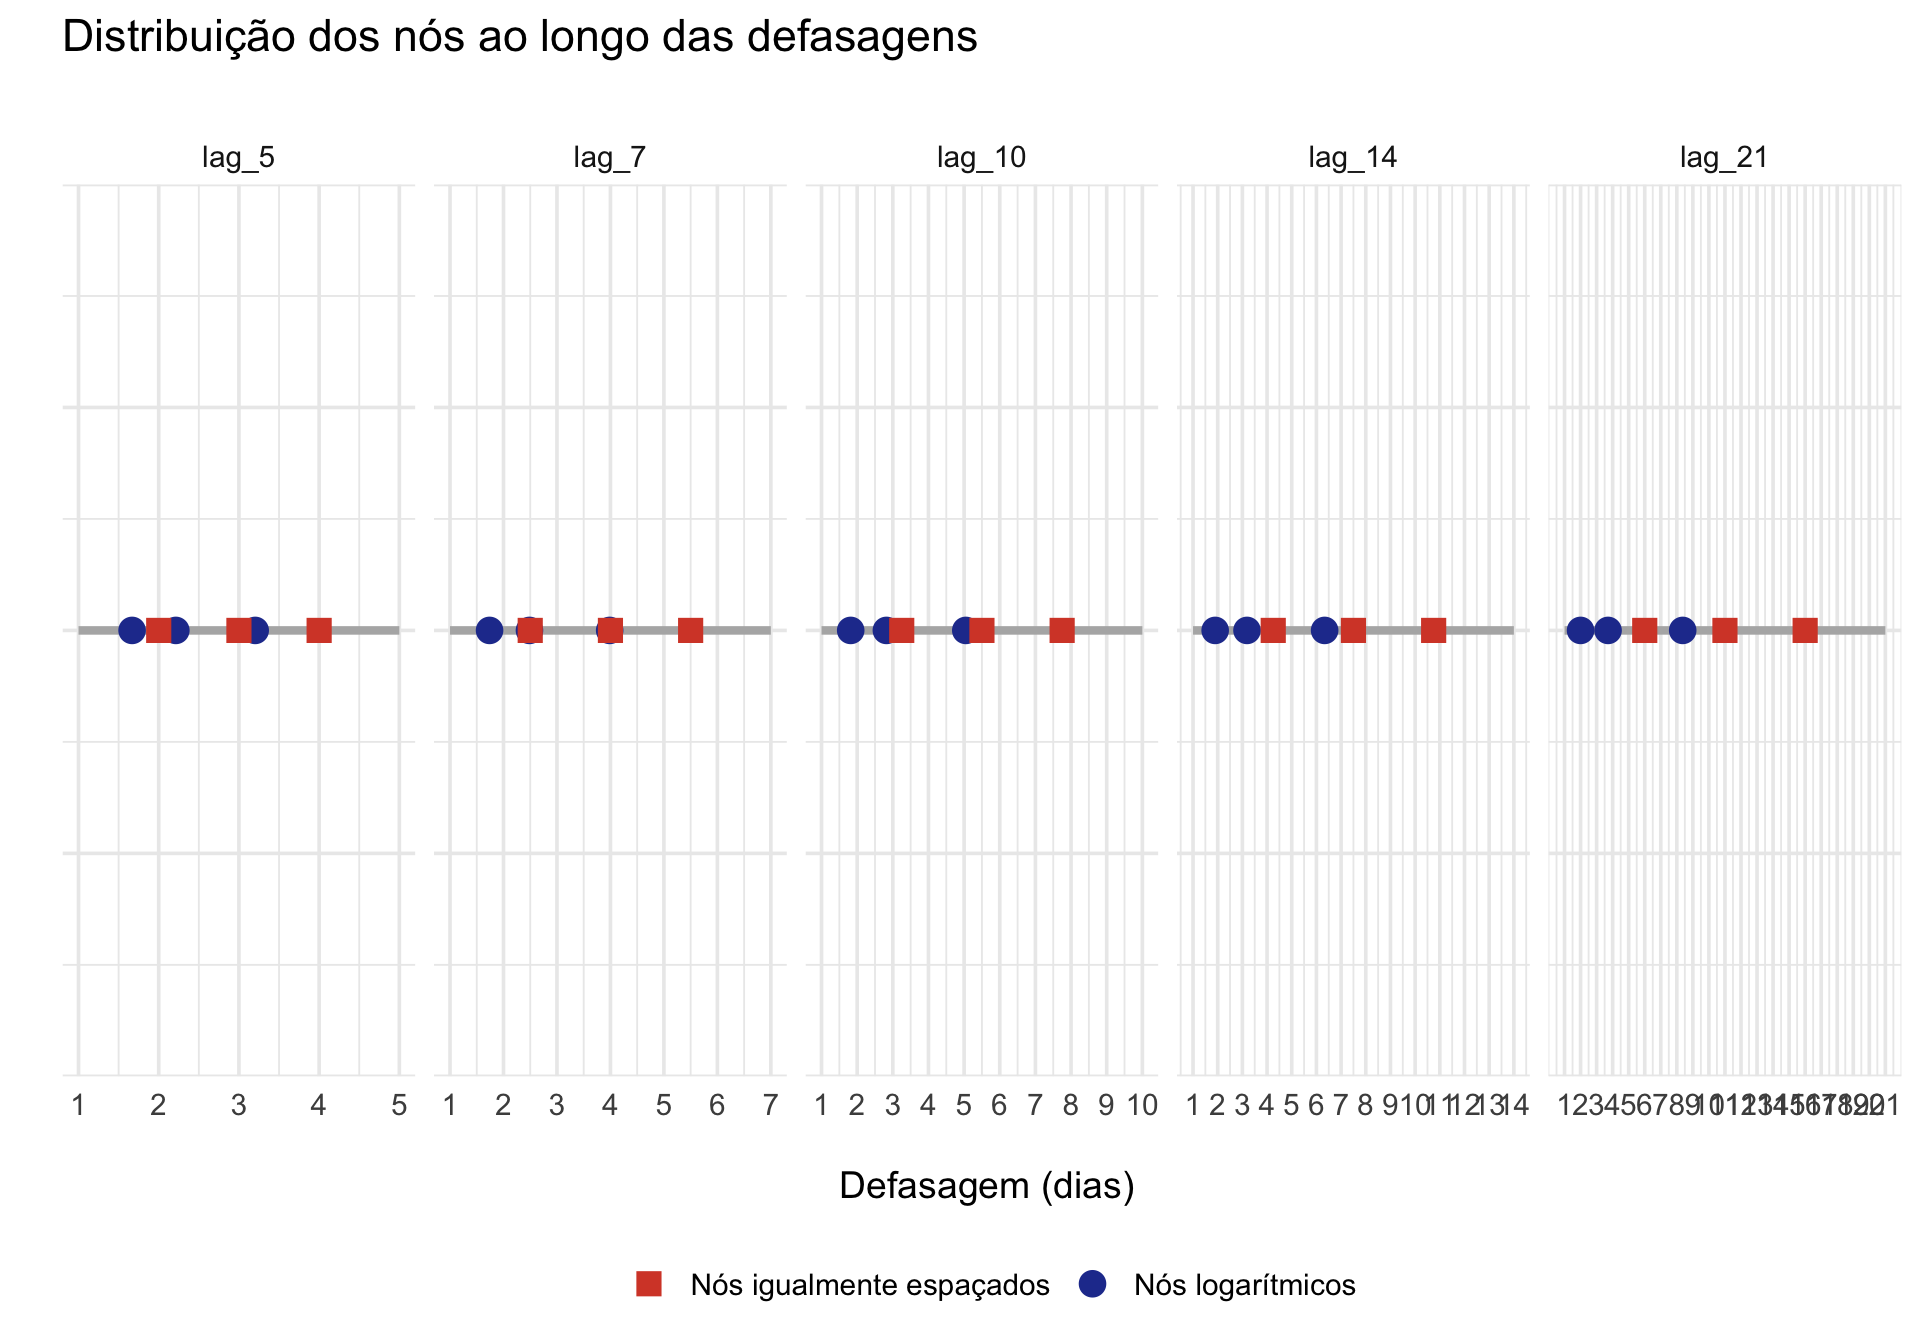
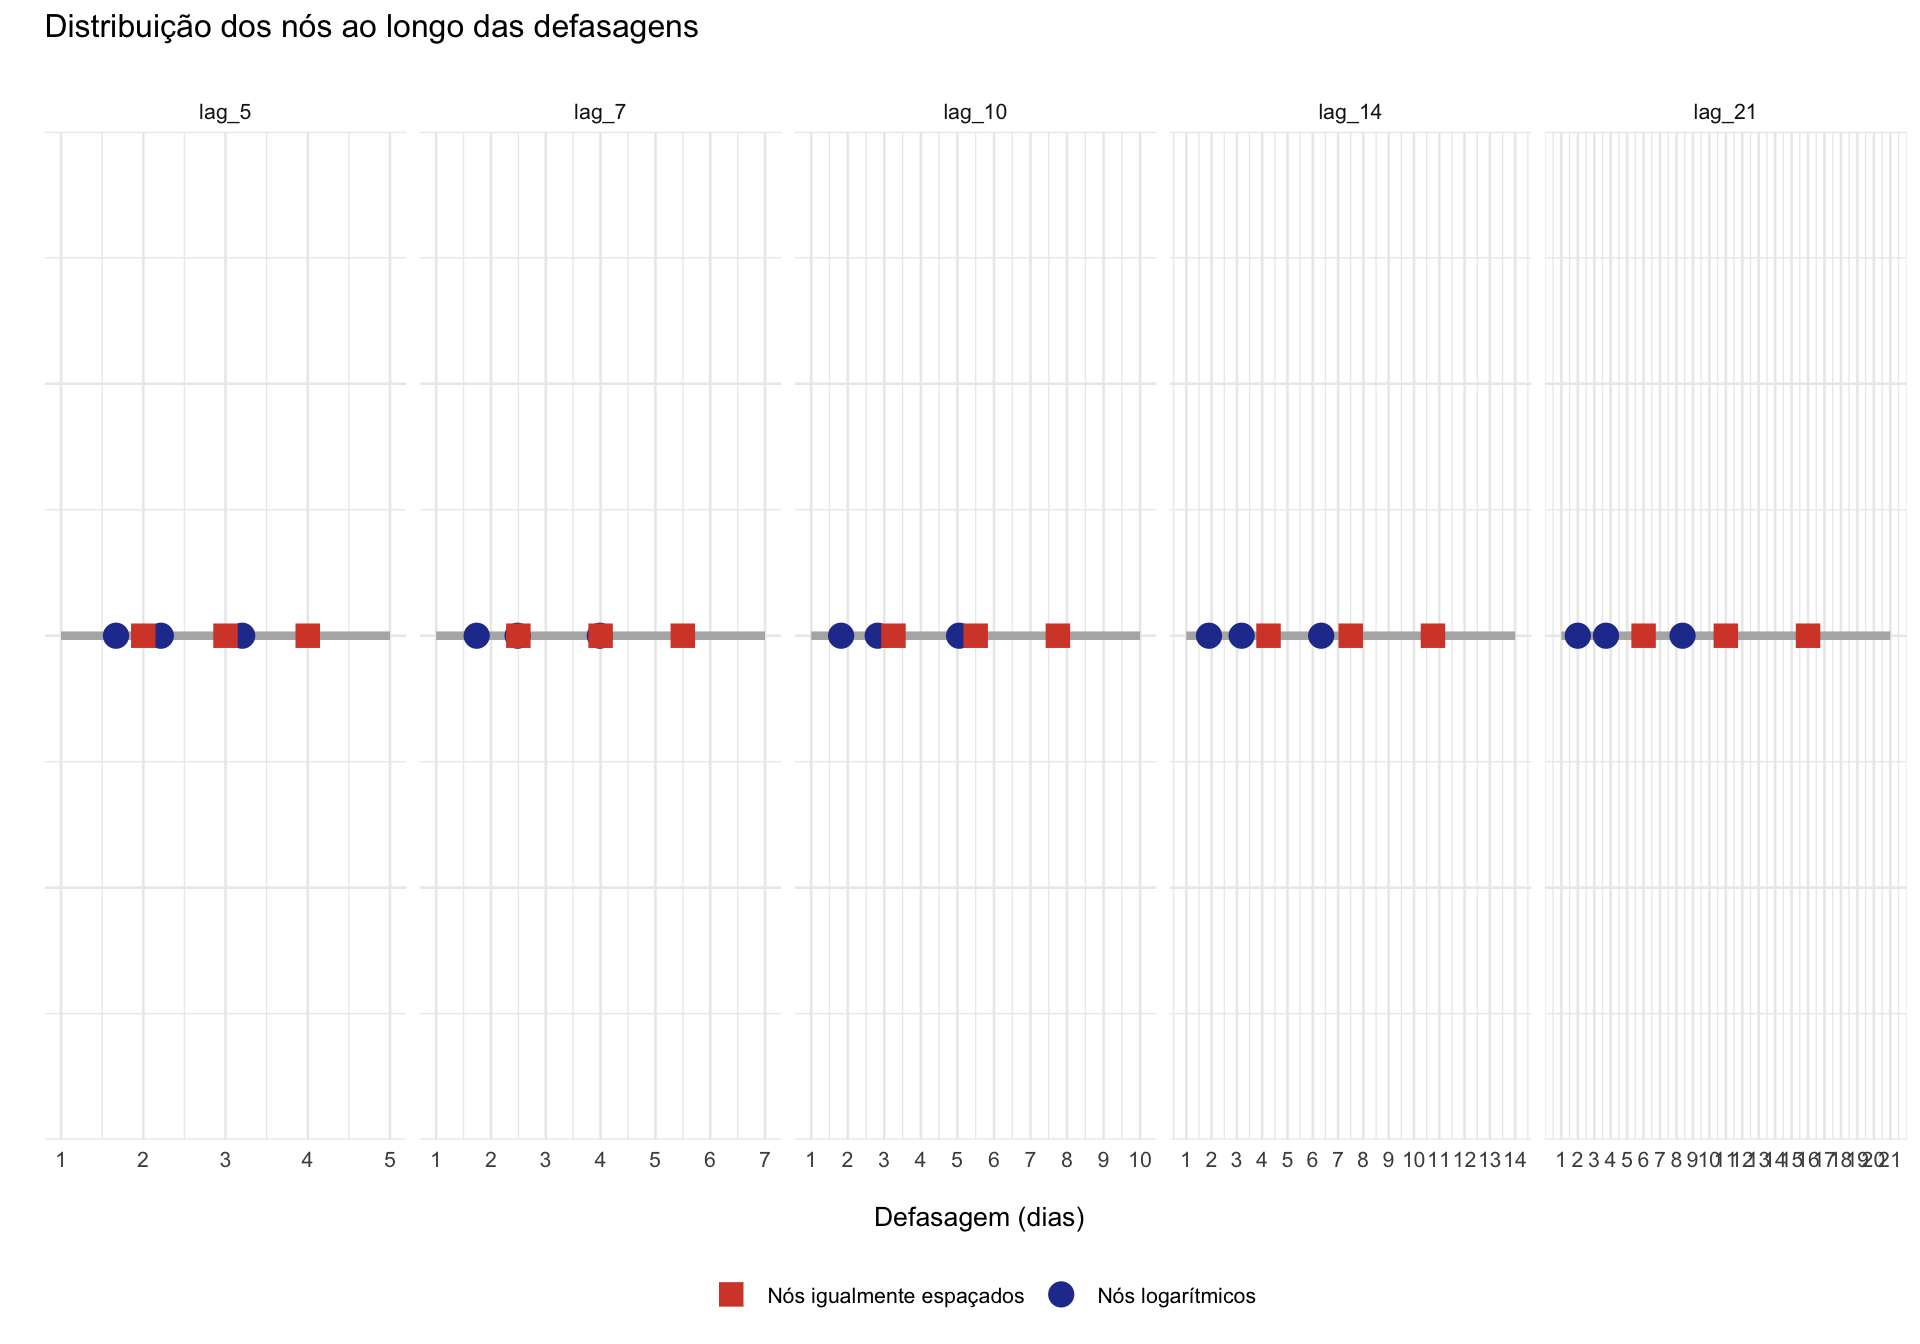
Update

diff --git a/docs/index.html b/docs/index.html
@@ -236,23 +236,23 @@ ul.task-list li input[type="checkbox"] {
 <h2 class="anchored" data-anchor-id="cronograma">Cronograma</h2>
 <div class="cell">
 <div class="cell-output-display">
-<div id="bzqovhuztv" style="padding-left:0px;padding-right:0px;padding-top:10px;padding-bottom:10px;overflow-x:auto;overflow-y:auto;width:100%;height:auto;">
-<style>#bzqovhuztv table {
+<div id="bjyknvcdwh" style="padding-left:0px;padding-right:0px;padding-top:10px;padding-bottom:10px;overflow-x:auto;overflow-y:auto;width:100%;height:auto;">
+<style>#bjyknvcdwh table {
   font-family: system-ui, 'Segoe UI', Roboto, Helvetica, Arial, sans-serif, 'Apple Color Emoji', 'Segoe UI Emoji', 'Segoe UI Symbol', 'Noto Color Emoji';
   -webkit-font-smoothing: antialiased;
   -moz-osx-font-smoothing: grayscale;
 }
 
-#bzqovhuztv thead, #bzqovhuztv tbody, #bzqovhuztv tfoot, #bzqovhuztv tr, #bzqovhuztv td, #bzqovhuztv th {
+#bjyknvcdwh thead, #bjyknvcdwh tbody, #bjyknvcdwh tfoot, #bjyknvcdwh tr, #bjyknvcdwh td, #bjyknvcdwh th {
   border-style: none;
 }
 
-#bzqovhuztv p {
+#bjyknvcdwh p {
   margin: 0;
   padding: 0;
 }
 
-#bzqovhuztv .gt_table {
+#bjyknvcdwh .gt_table {
   display: table;
   border-collapse: collapse;
   line-height: normal;
@@ -278,12 +278,12 @@ ul.task-list li input[type="checkbox"] {
   border-left-color: #D3D3D3;
 }
 
-#bzqovhuztv .gt_caption {
+#bjyknvcdwh .gt_caption {
   padding-top: 4px;
   padding-bottom: 4px;
 }
 
-#bzqovhuztv .gt_title {
+#bjyknvcdwh .gt_title {
   color: #333333;
   font-size: 125%;
   font-weight: initial;
@@ -295,7 +295,7 @@ ul.task-list li input[type="checkbox"] {
   border-bottom-width: 0;
 }
 
-#bzqovhuztv .gt_subtitle {
+#bjyknvcdwh .gt_subtitle {
   color: #333333;
   font-size: 85%;
   font-weight: initial;
@@ -307,7 +307,7 @@ ul.task-list li input[type="checkbox"] {
   border-top-width: 0;
 }
 
-#bzqovhuztv .gt_heading {
+#bjyknvcdwh .gt_heading {
   background-color: #FFFFFF;
   text-align: center;
   border-bottom-color: #FFFFFF;
@@ -319,13 +319,13 @@ ul.task-list li input[type="checkbox"] {
   border-right-color: #D3D3D3;
 }
 
-#bzqovhuztv .gt_bottom_border {
+#bjyknvcdwh .gt_bottom_border {
   border-bottom-style: solid;
   border-bottom-width: 2px;
   border-bottom-color: #D3D3D3;
 }
 
-#bzqovhuztv .gt_col_headings {
+#bjyknvcdwh .gt_col_headings {
   border-top-style: solid;
   border-top-width: 2px;
   border-top-color: #D3D3D3;
@@ -340,7 +340,7 @@ ul.task-list li input[type="checkbox"] {
   border-right-color: #D3D3D3;
 }
 
-#bzqovhuztv .gt_col_heading {
+#bjyknvcdwh .gt_col_heading {
   color: #333333;
   background-color: #FFFFFF;
   font-size: 100%;
@@ -360,7 +360,7 @@ ul.task-list li input[type="checkbox"] {
   overflow-x: hidden;
 }
 
-#bzqovhuztv .gt_column_spanner_outer {
+#bjyknvcdwh .gt_column_spanner_outer {
   color: #333333;
   background-color: #FFFFFF;
   font-size: 100%;
@@ -372,15 +372,15 @@ ul.task-list li input[type="checkbox"] {
   padding-right: 4px;
 }
 
-#bzqovhuztv .gt_column_spanner_outer:first-child {
+#bjyknvcdwh .gt_column_spanner_outer:first-child {
   padding-left: 0;
 }
 
-#bzqovhuztv .gt_column_spanner_outer:last-child {
+#bjyknvcdwh .gt_column_spanner_outer:last-child {
   padding-right: 0;
 }
 
-#bzqovhuztv .gt_column_spanner {
+#bjyknvcdwh .gt_column_spanner {
   border-bottom-style: solid;
   border-bottom-width: 2px;
   border-bottom-color: #D3D3D3;
@@ -392,11 +392,11 @@ ul.task-list li input[type="checkbox"] {
   width: 100%;
 }
 
-#bzqovhuztv .gt_spanner_row {
+#bjyknvcdwh .gt_spanner_row {
   border-bottom-style: hidden;
 }
 
-#bzqovhuztv .gt_group_heading {
+#bjyknvcdwh .gt_group_heading {
   padding-top: 8px;
   padding-bottom: 8px;
   padding-left: 5px;
@@ -422,7 +422,7 @@ ul.task-list li input[type="checkbox"] {
   text-align: left;
 }
 
-#bzqovhuztv .gt_empty_group_heading {
+#bjyknvcdwh .gt_empty_group_heading {
   padding: 0.5px;
   color: #333333;
   background-color: #FFFFFF;
@@ -437,15 +437,15 @@ ul.task-list li input[type="checkbox"] {
   vertical-align: middle;
 }
 
-#bzqovhuztv .gt_from_md > :first-child {
+#bjyknvcdwh .gt_from_md > :first-child {
   margin-top: 0;
 }
 
-#bzqovhuztv .gt_from_md > :last-child {
+#bjyknvcdwh .gt_from_md > :last-child {
   margin-bottom: 0;
 }
 
-#bzqovhuztv .gt_row {
+#bjyknvcdwh .gt_row {
   padding-top: 12px;
   padding-bottom: 12px;
   padding-left: 5px;
@@ -464,7 +464,7 @@ ul.task-list li input[type="checkbox"] {
   overflow-x: hidden;
 }
 
-#bzqovhuztv .gt_stub {
+#bjyknvcdwh .gt_stub {
   color: #333333;
   background-color: #FFFFFF;
   font-size: 100%;
@@ -477,7 +477,7 @@ ul.task-list li input[type="checkbox"] {
   padding-right: 5px;
 }
 
-#bzqovhuztv .gt_stub_row_group {
+#bjyknvcdwh .gt_stub_row_group {
   color: #333333;
   background-color: #FFFFFF;
   font-size: 100%;
@@ -491,15 +491,15 @@ ul.task-list li input[type="checkbox"] {
   vertical-align: top;
 }
 
-#bzqovhuztv .gt_row_group_first td {
+#bjyknvcdwh .gt_row_group_first td {
   border-top-width: 2px;
 }
 
-#bzqovhuztv .gt_row_group_first th {
+#bjyknvcdwh .gt_row_group_first th {
   border-top-width: 2px;
 }
 
-#bzqovhuztv .gt_summary_row {
+#bjyknvcdwh .gt_summary_row {
   color: #333333;
   background-color: #FFFFFF;
   text-transform: inherit;
@@ -509,16 +509,16 @@ ul.task-list li input[type="checkbox"] {
   padding-right: 5px;
 }
 
-#bzqovhuztv .gt_first_summary_row {
+#bjyknvcdwh .gt_first_summary_row {
   border-top-style: solid;
   border-top-color: #D3D3D3;
 }
 
-#bzqovhuztv .gt_first_summary_row.thick {
+#bjyknvcdwh .gt_first_summary_row.thick {
   border-top-width: 2px;
 }
 
-#bzqovhuztv .gt_last_summary_row {
+#bjyknvcdwh .gt_last_summary_row {
   padding-top: 8px;
   padding-bottom: 8px;
   padding-left: 5px;
@@ -528,7 +528,7 @@ ul.task-list li input[type="checkbox"] {
   border-bottom-color: #D3D3D3;
 }
 
-#bzqovhuztv .gt_grand_summary_row {
+#bjyknvcdwh .gt_grand_summary_row {
   color: #333333;
   background-color: #FFFFFF;
   text-transform: inherit;
@@ -538,7 +538,7 @@ ul.task-list li input[type="checkbox"] {
   padding-right: 5px;
 }
 
-#bzqovhuztv .gt_first_grand_summary_row {
+#bjyknvcdwh .gt_first_grand_summary_row {
   padding-top: 8px;
   padding-bottom: 8px;
   padding-left: 5px;
@@ -548,7 +548,7 @@ ul.task-list li input[type="checkbox"] {
   border-top-color: #D3D3D3;
 }
 
-#bzqovhuztv .gt_last_grand_summary_row_top {
+#bjyknvcdwh .gt_last_grand_summary_row_top {
   padding-top: 8px;
   padding-bottom: 8px;
   padding-left: 5px;
@@ -558,11 +558,11 @@ ul.task-list li input[type="checkbox"] {
   border-bottom-color: #D3D3D3;
 }
 
-#bzqovhuztv .gt_striped {
+#bjyknvcdwh .gt_striped {
   background-color: rgba(128, 128, 128, 0.05);
 }
 
-#bzqovhuztv .gt_table_body {
+#bjyknvcdwh .gt_table_body {
   border-top-style: solid;
   border-top-width: 2px;
   border-top-color: #D3D3D3;
@@ -571,7 +571,7 @@ ul.task-list li input[type="checkbox"] {
   border-bottom-color: #D3D3D3;
 }
 
-#bzqovhuztv .gt_footnotes {
+#bjyknvcdwh .gt_footnotes {
   color: #333333;
   background-color: #FFFFFF;
   border-bottom-style: none;
@@ -585,7 +585,7 @@ ul.task-list li input[type="checkbox"] {
   border-right-color: #D3D3D3;
 }
 
-#bzqovhuztv .gt_footnote {
+#bjyknvcdwh .gt_footnote {
   margin: 0px;
   font-size: 90%;
   padding-top: 4px;
@@ -594,7 +594,7 @@ ul.task-list li input[type="checkbox"] {
   padding-right: 5px;
 }
 
-#bzqovhuztv .gt_sourcenotes {
+#bjyknvcdwh .gt_sourcenotes {
   color: #333333;
   background-color: #FFFFFF;
   border-bottom-style: none;
@@ -608,7 +608,7 @@ ul.task-list li input[type="checkbox"] {
   border-right-color: #D3D3D3;
 }
 
-#bzqovhuztv .gt_sourcenote {
+#bjyknvcdwh .gt_sourcenote {
   font-size: 90%;
   padding-top: 4px;
   padding-bottom: 4px;
@@ -616,72 +616,72 @@ ul.task-list li input[type="checkbox"] {
   padding-right: 5px;
 }
 
-#bzqovhuztv .gt_left {
+#bjyknvcdwh .gt_left {
   text-align: left;
 }
 
-#bzqovhuztv .gt_center {
+#bjyknvcdwh .gt_center {
   text-align: center;
 }
 
-#bzqovhuztv .gt_right {
+#bjyknvcdwh .gt_right {
   text-align: right;
   font-variant-numeric: tabular-nums;
 }
 
-#bzqovhuztv .gt_font_normal {
+#bjyknvcdwh .gt_font_normal {
   font-weight: normal;
 }
 
-#bzqovhuztv .gt_font_bold {
+#bjyknvcdwh .gt_font_bold {
   font-weight: bold;
 }
 
-#bzqovhuztv .gt_font_italic {
+#bjyknvcdwh .gt_font_italic {
   font-style: italic;
 }
 
-#bzqovhuztv .gt_super {
+#bjyknvcdwh .gt_super {
   font-size: 65%;
 }
 
-#bzqovhuztv .gt_footnote_marks {
+#bjyknvcdwh .gt_footnote_marks {
   font-size: 75%;
   vertical-align: 0.4em;
   position: initial;
 }
 
-#bzqovhuztv .gt_asterisk {
+#bjyknvcdwh .gt_asterisk {
   font-size: 100%;
   vertical-align: 0;
 }
 
-#bzqovhuztv .gt_indent_1 {
+#bjyknvcdwh .gt_indent_1 {
   text-indent: 5px;
 }
 
-#bzqovhuztv .gt_indent_2 {
+#bjyknvcdwh .gt_indent_2 {
   text-indent: 10px;
 }
 
-#bzqovhuztv .gt_indent_3 {
+#bjyknvcdwh .gt_indent_3 {
   text-indent: 15px;
 }
 
-#bzqovhuztv .gt_indent_4 {
+#bjyknvcdwh .gt_indent_4 {
   text-indent: 20px;
 }
 
-#bzqovhuztv .gt_indent_5 {
+#bjyknvcdwh .gt_indent_5 {
   text-indent: 25px;
 }
 
-#bzqovhuztv .katex-display {
+#bjyknvcdwh .katex-display {
   display: inline-flex !important;
   margin-bottom: 0.75em !important;
 }
 
-#bzqovhuztv div.Reactable > div.rt-table > div.rt-thead > div.rt-tr.rt-tr-group-header > div.rt-th-group:after {
+#bjyknvcdwh div.Reactable > div.rt-table > div.rt-thead > div.rt-tr.rt-tr-group-header > div.rt-th-group:after {
   height: 0px !important;
 }
 </style>

diff --git a/docs/07 - Análise de temperatura e mortalidade.html b/docs/07 - Análise de temperatura e mortalidade.html
@@ -1410,7 +1410,7 @@ $lag_5_knots_3_eq
 <span id="cb31-117"><a href="#cb31-117" aria-hidden="true" tabindex="-1"></a>    <span class="at">nrow =</span> <span class="dv">1</span></span>
 <span id="cb31-118"><a href="#cb31-118" aria-hidden="true" tabindex="-1"></a>  ) <span class="sc">+</span></span>
 <span id="cb31-119"><a href="#cb31-119" aria-hidden="true" tabindex="-1"></a>  <span class="co"># Tema visual</span></span>
-<span id="cb31-120"><a href="#cb31-120" aria-hidden="true" tabindex="-1"></a>  <span class="fu">theme_minimal</span>(<span class="at">base_size =</span> <span class="dv">14</span>) <span class="sc">+</span></span>
+<span id="cb31-120"><a href="#cb31-120" aria-hidden="true" tabindex="-1"></a>  <span class="fu">theme_minimal</span>(<span class="at">base_size =</span> <span class="dv">10</span>) <span class="sc">+</span></span>
 <span id="cb31-121"><a href="#cb31-121" aria-hidden="true" tabindex="-1"></a>  <span class="fu">theme</span>(</span>
 <span id="cb31-122"><a href="#cb31-122" aria-hidden="true" tabindex="-1"></a>    <span class="at">axis.text.y =</span> <span class="fu">element_blank</span>(),</span>
 <span id="cb31-123"><a href="#cb31-123" aria-hidden="true" tabindex="-1"></a>    <span class="at">axis.ticks.y =</span> <span class="fu">element_blank</span>(),</span>
@@ -1445,7 +1445,6 @@ $lag_5_knots_3_eq
 </section>
 <section id="modelo-dlnm" class="level2">
 <h2 class="anchored" data-anchor-id="modelo-dlnm">Modelo DLNM</h2>
-<p>Até aqui, descrevemos separadamente a curva da temperatura e a curva do tempo de defasagem. O DLNM combina as duas para responder à pergunta completa: como a associação muda conforme a temperatura e conforme passam os dias?</p>
 <section id="cross-basis-combinação-de-temperatura-e-defasagem" class="level3">
 <h3 class="anchored" data-anchor-id="cross-basis-combinação-de-temperatura-e-defasagem"><em>Cross-basis</em>: combinação de temperatura e defasagem</h3>
 <p>Agora vamos combinar as duas dimensões que estamos estudando: a <strong>temperatura</strong> e o <strong>tempo de defasagem (<em>lag</em>)</strong>.</p>
